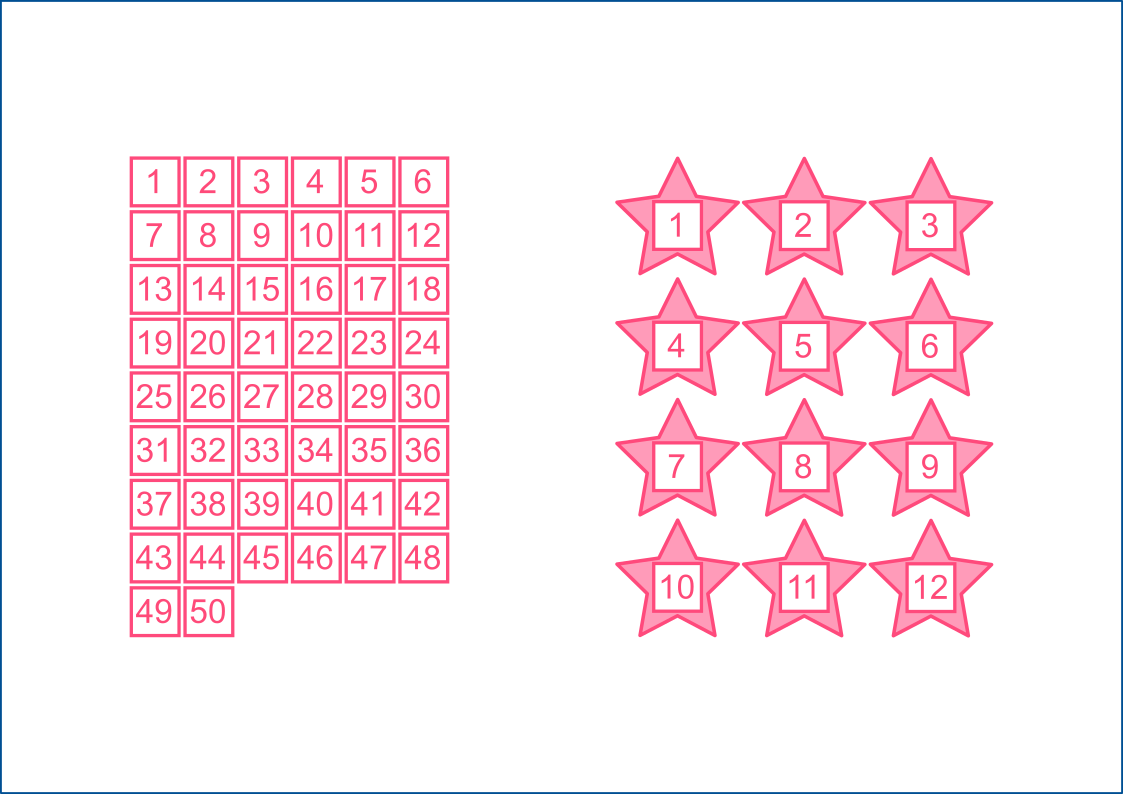
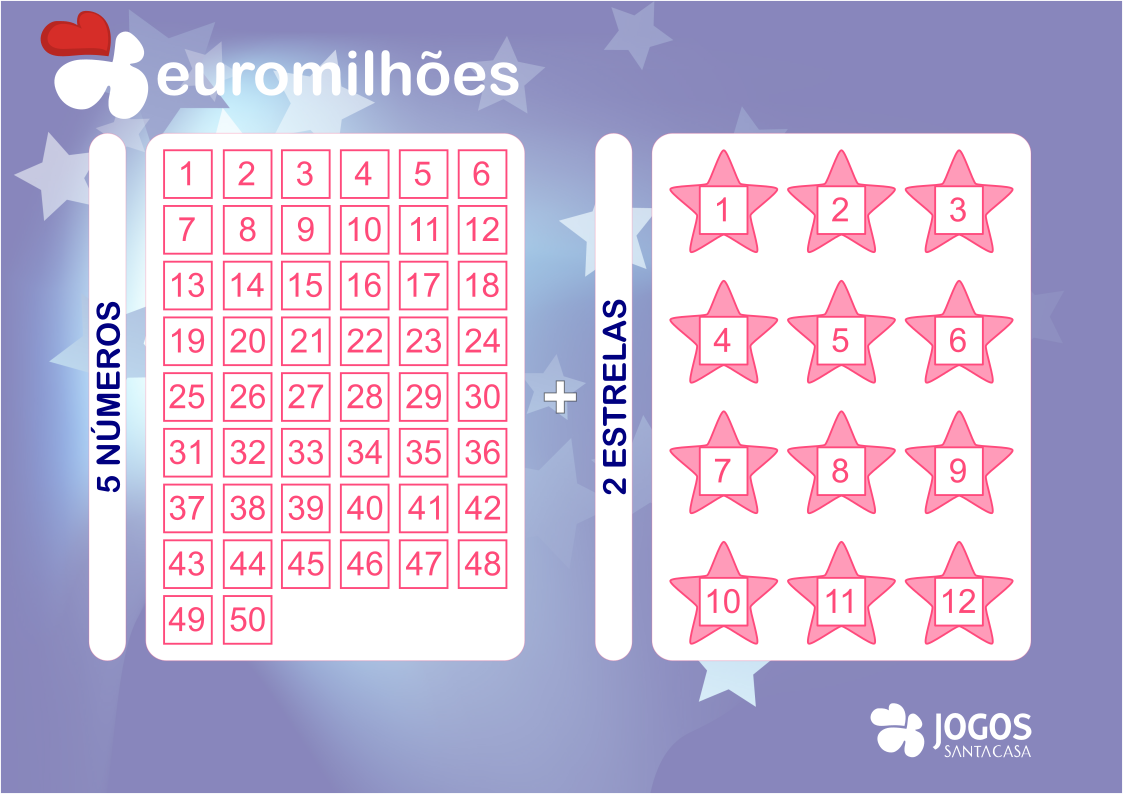
santacasa

diff --git a/Euromilhoes/Form1.Designer.cs b/Euromilhoes/Form1.Designer.cs
@@ -1038,7 +1038,7 @@
             // 
             this.AutoScaleMode = System.Windows.Forms.AutoScaleMode.None;
             this.BackColor = System.Drawing.Color.CornflowerBlue;
-            this.BackgroundImage = global::Euromilhoes.Properties.Resources.euromilhoes1;
+            this.BackgroundImage = global::Euromilhoes.Properties.Resources.euromilhoes;
             this.BackgroundImageLayout = System.Windows.Forms.ImageLayout.None;
             this.ClientSize = new System.Drawing.Size(1121, 792);
             this.Controls.Add(this.label65);

diff --git a/Euromilhoes/Properties/Resources.Designer.cs b/Euromilhoes/Properties/Resources.Designer.cs
@@ -69,15 +69,5 @@ namespace Euromilhoes.Properties {
                 return ((System.Drawing.Bitmap)(obj));
             }
         }
-        
-        /// <summary>
-        ///   Consulta um recurso localizado do tipo System.Drawing.Bitmap.
-        /// </summary>
-        internal static System.Drawing.Bitmap euromilhoes1 {
-            get {
-                object obj = ResourceManager.GetObject("euromilhoes1", resourceCulture);
-                return ((System.Drawing.Bitmap)(obj));
-            }
-        }
     }
 }
